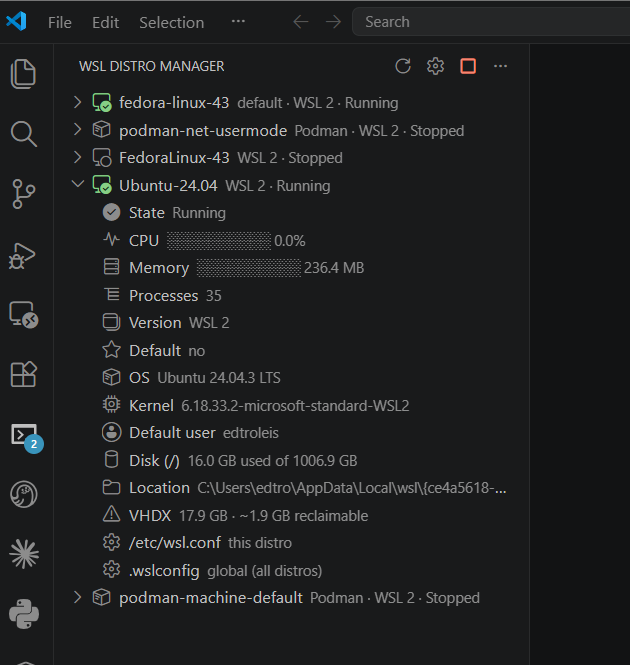
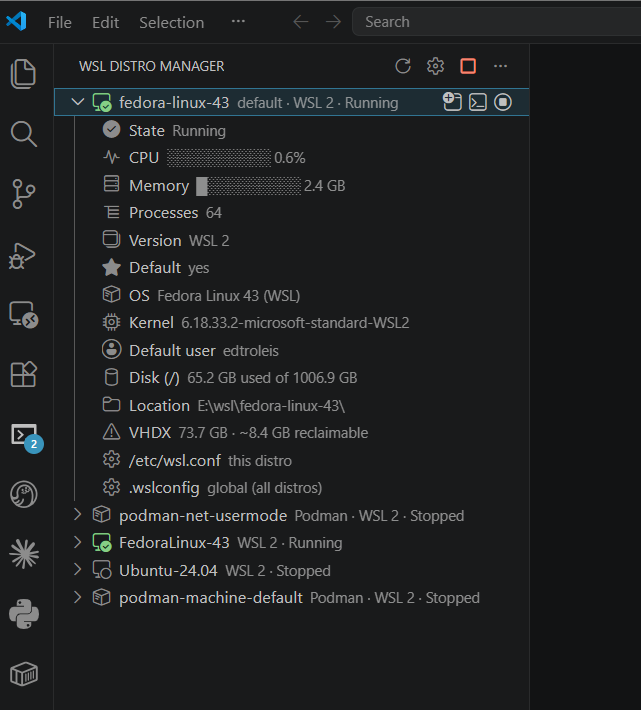
Only suggest compaction when it pays off, and name connected VS Code windows
The VHDX always holds file system overhead beyond what df reports, so the
old 1 GB threshold invited compactions that reclaimed nothing (a 1.2 GB gap
gave back 23 MB) while still shutting WSL down. The estimate now needs a gap
of at least 2 GB and 10% of the used space, calibrated on real runs, and the
confirmation states the expected gain or warns that there is little to gain.

The shutdown confirmation names the distros VS Code windows are connected to,
found through the wsl.exe processes running the VS Code server.

Screenshots updated from the latest test run.

diff --git a/src/commands.ts b/src/commands.ts
@@ -4,7 +4,7 @@ import * as vscode from 'vscode';
 import * as wsl from './wsl';
 import { Distro } from './wsl';
 import { formatBytes } from './monitor';
-import { DistroItem, DistroTreeProvider, InfoItem } from './tree';
+import { DistroItem, DistroTreeProvider, InfoItem, estimateReclaimable } from './tree';
 import { distroUri, globalUri } from './configFs';
 
 function config() {
@@ -141,10 +141,16 @@ export async function confirmRestartIfCurrentWindow(distro: string): Promise<boo
  * Always asks: a shutdown stops every distro, including ones this window or
  * other tools (Docker, Podman) depend on, and those are not restarted for them.
  */
-async function confirmShutdownForCompaction(distro: string, running: string[]): Promise<boolean> {
+async function confirmShutdownForCompaction(
+	distro: string,
+	running: string[],
+	connected: string[],
+	reclaimable: number | undefined,
+): Promise<boolean> {
 	const managed = running.filter((name) => wsl.managedBy(name));
 	const detail = [
-		`WSL keeps the disk of "${distro}" attached while any distro is running.`,
+		`WSL keeps the disk of "${distro}" attached while any distro is running.` +
+			(reclaimable !== undefined ? ` Expected gain: about ${formatBytes(reclaimable)}.` : ''),
 		running.length > 0
 			? `Running now: ${running.join(', ')}. They will be stopped` +
 				(running.length > managed.length ? ' and started again after the compaction.' : '.')
@@ -154,9 +160,12 @@ async function confirmShutdownForCompaction(distro: string, running: string[]): 
 					...new Set(managed.map((name) => wsl.managedBy(name)?.tool)),
 				].join(' / ')} and will not be restarted; start ${managed.length === 1 ? 'it' : 'them'} from that tool.`
 			: '',
-		'Every VS Code window and terminal connected to WSL, including this one if it is, will be ' +
-			'disconnected. Compacting a large disk can take several minutes: wait for the result ' +
-			'before reconnecting them.',
+		connected.length > 0
+			? `VS Code is connected to ${connected.join(', ')}: those windows will lose their connection ` +
+				'and need "Developer: Reload Window" after the compaction.'
+			: '',
+		'Every terminal and VS Code window connected to WSL will be disconnected. Compacting a large ' +
+			'disk can take several minutes: wait for the result before reconnecting.',
 	].filter(Boolean);
 	const choice = await vscode.window.showWarningMessage(
 		`Shut down WSL to compact "${distro}"?`,
@@ -471,11 +480,23 @@ export function registerCommands(
 		const vhdHost = await wsl.toHostPath(vhd);
 		const sizeBefore = (await fs.stat(vhdHost)).size;
 
+		// Only a running distro can report what it uses; say what to expect.
+		const used = distro.running ? (await wsl.runtimeInfo(distro.name).catch(() => undefined))?.diskUsed : undefined;
+		const reclaimable = estimateReclaimable(sizeBefore, used);
+		const expectation =
+			used === undefined
+				? 'The distro is stopped, so the space to reclaim cannot be estimated.'
+				: reclaimable !== undefined
+					? `About ${formatBytes(reclaimable)} can be reclaimed.`
+					: `Little to reclaim: the disk holds ${formatBytes(used)} and is only ${formatBytes(sizeBefore - used)} larger, ` +
+						'which is mostly file system overhead. Compacting now will likely gain almost nothing.';
+
 		const ok = await confirmDistroAction(
 			distro.name,
 			`Compact the disk of "${distro.name}" (${formatBytes(sizeBefore)})?`,
 			'Compact',
-			(distro.running ? 'The distro will be stopped while its disk is compacted, then started again. ' : '') +
+			`${expectation}\n\n` +
+				(distro.running ? 'The distro will be stopped while its disk is compacted, then started again. ' : '') +
 				'Windows will ask for administrator permission to run diskpart.',
 		);
 		if (!ok) {
@@ -515,7 +536,8 @@ export function registerCommands(
 							'window (not connected to WSL).',
 					);
 				}
-				if (!(await confirmShutdownForCompaction(distro.name, running))) {
+				const connected = await wsl.vscodeConnectedDistros().catch(() => []);
+				if (!(await confirmShutdownForCompaction(distro.name, running, connected, reclaimable))) {
 					return;
 				}
 				toRestart = [...new Set([...toRestart, ...running])].filter((name) => !wsl.managedBy(name));

diff --git a/src/tree.ts b/src/tree.ts
@@ -4,8 +4,21 @@ import * as vscode from 'vscode';
 import { DistroMonitor, formatBytes } from './monitor';
 import { Distro, isCurrentWindowDistro, list, managedBy, registryInfo, runtimeInfo, toHostPath } from './wsl';
 
-/** Below this, the gap between VHDX size and used space is not worth a compaction. */
-const RECLAIMABLE_THRESHOLD = 1024 ** 3;
+/**
+ * How much a compaction would likely give back, or undefined when it is not
+ * worth a WSL shutdown. The VHDX always holds a bit more than `df` reports as
+ * used (ext4 metadata, journal, reserved blocks), so a small gap is not free
+ * space: in tests, a 1.2 GB gap on 43 GB used reclaimed 23 MB and a 1.9 GB gap
+ * on 16 GB reclaimed 0.2 GB, while a 9.9 GB gap on 43 GB reclaimed 8.7 GB.
+ * Hence the bar: at least 2 GB and 10% of the used space.
+ */
+export function estimateReclaimable(vhdxSize: number, used: number | undefined): number | undefined {
+	if (used === undefined) {
+		return undefined;
+	}
+	const gap = vhdxSize - used;
+	return gap >= Math.max(2 * 1024 ** 3, used * 0.1) ? gap : undefined;
+}
 
 export class DistroItem extends vscode.TreeItem {
 	constructor(readonly distro: Distro, expanded = false) {
@@ -104,13 +117,15 @@ class ConfigFileItem extends vscode.TreeItem {
  * it runs) shows how much a compaction would give back.
  */
 export function vhdxItem(parent: DistroItem, vhdWindows: string, size: number, used: number | undefined): InfoItem {
-	const reclaimable = used !== undefined ? size - used : 0;
-	const worthIt = reclaimable >= RECLAIMABLE_THRESHOLD;
-	const value = worthIt ? `${formatBytes(size)} · ~${formatBytes(reclaimable)} reclaimable` : formatBytes(size);
+	const reclaimable = estimateReclaimable(size, used);
+	const value = reclaimable !== undefined ? `${formatBytes(size)} · ~${formatBytes(reclaimable)} reclaimable` : formatBytes(size);
 	const tooltip =
 		`${vhdWindows}\n\nFile size: ${formatBytes(size)}` +
-		(used !== undefined ? `\nUsed inside the distro: ${formatBytes(used)}` : '\nStart the distro to estimate reclaimable space.');
-	const item = new InfoItem(parent, 'VHDX', value, worthIt ? 'warning' : 'file-binary', tooltip);
+		(used === undefined
+			? '\nStart the distro to estimate reclaimable space.'
+			: `\nUsed inside the distro: ${formatBytes(used)}` +
+				(reclaimable === undefined ? '\nLittle to reclaim: compacting is not worth it now.' : ''));
+	const item = new InfoItem(parent, 'VHDX', value, reclaimable !== undefined ? 'warning' : 'file-binary', tooltip);
 	// Managed distros get no inline Compact button: their tool owns the disk.
 	item.contextValue = parent.distro.version === 2 && !managedBy(parent.distro.name) ? 'wslVhdx' : 'wslInfo';
 	return item;

diff --git a/src/test/wsl.test.ts b/src/test/wsl.test.ts
@@ -11,6 +11,7 @@ import {
 	parseDistroList,
 	parseRegistry,
 	parseRuntimeInfo,
+	parseVscodeConnectedDistros,
 	toWindowsPath,
 } from '../wsl';
 import * as fs from 'node:fs';
@@ -344,5 +345,32 @@ describe('interopBroken', { skip: process.platform === 'win32' }, () => {
 	it('does not guess when binfmt_misc is not mounted', () => {
 		assert.equal(interopBroken(binfmt()), false);
 		assert.equal(interopBroken('/nonexistent/binfmt_misc'), false);
+	});
+});
+
+describe('parseVscodeConnectedDistros', () => {
+	// Command lines of the wsl.exe processes VS Code runs on Windows, as seen in a real session.
+	const lines = [
+		`C:\\WINDOWS\\System32\\wsl.exe -d fedora-linux-43 sh -c '"$VSCODE_WSL_EXT_LOCATION/scripts/wslServer.sh" f6cfa2 stable code-server .vscode-server --host=127.0.0.1'`,
+		`C:\\WINDOWS\\System32\\wsl.exe -d fedora-linux-43 -e /home/user/.vscode-server/bin/f6cfa2/node -e "const net = require('net');"`,
+		`C:\\WINDOWS\\system32\\wsl.exe -d fedora-linux-43 -e /bin/sh -c "cd '/home/user/code' && /bin/sh"`,
+		`wsl.exe --distribution Ubuntu-24.04 --exec /bin/sh -c "while :; do sleep 2; done"`,
+		`"C:\\WINDOWS\\system32\\wsl.exe" --distribution FedoraLinux-43 --exec /bin/sleep 2147483647`,
+	].join('\r\n');
+
+	it('finds distros running a VS Code server, once each', () => {
+		assert.deepEqual(parseVscodeConnectedDistros(lines), ['fedora-linux-43']);
+	});
+
+	it('ignores terminals, monitors, and keep-alive sessions', () => {
+		const others = lines.split('\r\n').slice(2).join('\n');
+		assert.deepEqual(parseVscodeConnectedDistros(others), []);
+	});
+
+	it('handles --distribution and quoted names', () => {
+		assert.deepEqual(
+			parseVscodeConnectedDistros('wsl.exe --distribution "My Distro" -e /home/u/.vscode-server/bin/x/node'),
+			['My Distro'],
+		);
 	});
 });

diff --git a/src/test/tree.test.ts b/src/test/tree.test.ts
@@ -1,6 +1,6 @@
 import assert = require('node:assert/strict');
 import { describe, it } from 'node:test';
-import { DistroItem, vhdxItem } from '../tree';
+import { DistroItem, estimateReclaimable, vhdxItem } from '../tree';
 import { Distro } from '../wsl';
 
 const GB = 1024 ** 3;
@@ -74,5 +74,27 @@ describe('vhdxItem', () => {
 	it('links back to its distro for the inline Compact action', () => {
 		const parent = new DistroItem(distro());
 		assert.equal(vhdxItem(parent, vhd, GB, GB).parent, parent);
+	});
+});
+
+describe('estimateReclaimable', () => {
+	// Real runs: VHDX size, used inside the distro, and what compaction gave back.
+	it('shows the gaps that paid off', () => {
+		assert.ok(estimateReclaimable(52.8 * GB, 42.9 * GB)); // reclaimed 8.7 GB
+		assert.ok(estimateReclaimable(73.7 * GB, 65.2 * GB)); // ~8.5 GB gap
+	});
+
+	it('hides gaps that are mostly file system overhead', () => {
+		assert.equal(estimateReclaimable(44.1 * GB, 42.9 * GB), undefined); // reclaimed 23 MB
+		assert.equal(estimateReclaimable(17.9 * GB, 16.0 * GB), undefined); // reclaimed 0.2 GB
+	});
+
+	it('needs at least 2 GB even on small disks', () => {
+		assert.equal(estimateReclaimable(3.5 * GB, 1.6 * GB), undefined);
+		assert.ok(estimateReclaimable(4 * GB, 1.5 * GB));
+	});
+
+	it('cannot estimate without the used space', () => {
+		assert.equal(estimateReclaimable(50 * GB, undefined), undefined);
 	});
 });

diff --git a/src/wsl.ts b/src/wsl.ts
@@ -562,3 +562,37 @@ export async function waitUntilUnlocked(windowsPath: string, timeoutMs: number):
 		await new Promise((r) => setTimeout(r, 1000));
 	}
 }
+
+/**
+ * Distros that VS Code windows are connected to right now, found through the
+ * Windows-side wsl.exe processes that run the VS Code server. Best effort: an
+ * empty list when it cannot tell.
+ */
+export async function vscodeConnectedDistros(): Promise<string[]> {
+	const result = await spawnCapture(
+		powershellPath(),
+		[
+			'-NoProfile',
+			'-NonInteractive',
+			'-Command',
+			"Get-CimInstance Win32_Process -Filter \"Name='wsl.exe'\" | ForEach-Object { $_.CommandLine }",
+		],
+		{ cwd: process.platform === 'win32' ? undefined : '/mnt/c', tolerateFailure: true },
+	);
+	return parseVscodeConnectedDistros(result.stdout);
+}
+
+/** Pure part of vscodeConnectedDistros(): one wsl.exe command line per line. */
+export function parseVscodeConnectedDistros(commandLines: string): string[] {
+	const distros = new Set<string>();
+	for (const line of commandLines.split(/\r?\n/)) {
+		if (!/wslServer\.sh|\.vscode-server/.test(line)) {
+			continue;
+		}
+		const match = /\s(?:-d|--distribution)\s+("([^"]+)"|\S+)/.exec(line);
+		if (match) {
+			distros.add(match[2] ?? match[1]);
+		}
+	}
+	return [...distros];
+}

diff --git a/src/test/smoke.ts b/src/test/smoke.ts
@@ -67,6 +67,8 @@ async function main(): Promise<void> {
 		await check('dialog path → wsl.exe path', () => wsl.toWindowsPath(Uri.file(temp) as never));
 	}
 
+	await check('distros with VS Code connected', () => wsl.vscodeConnectedDistros(), (d) => d.join(', ') || 'none');
+
 	for (const distro of distros ?? []) {
 		console.log(`\n${distro.name}${wsl.managedBy(distro.name) ? ` (managed by ${wsl.managedBy(distro.name)?.tool})` : ''}`);
 		const entry = registry?.get(distro.name);

diff --git a/README.md b/README.md
@@ -8,7 +8,7 @@ which is still what connects VS Code to a distro. This one covers what the
 official extension does not: start/stop, `--set-default`, export/import,
 `--shutdown`, resource monitoring, and editing `.wslconfig` and `/etc/wsl.conf`.
 
-![WSL Distro Manager view: an expanded Ubuntu distro with live CPU, memory, and process count, OS and disk details, and reclaimable VHDX space; Podman distros are labeled](images/overview.png)
+![WSL Distro Manager view: the default distro expanded with live CPU, memory, and process count, OS and disk details, and about 8.4 GB of reclaimable VHDX space; Podman distros are labeled](images/overview.png)
 
 ## Features
 
@@ -42,7 +42,11 @@ current VS Code window always ask, even with confirmations turned off.
 A WSL 2 distro keeps its files in a VHDX that grows but never shrinks on its own:
 space freed inside the distro stays allocated on the Windows drive. When a
 running distro is expanded, the **VHDX** row shows how much a compaction would
-give back, with an inline **Compact Disk** button.
+give back, with an inline **Compact Disk** button. The estimate only appears when
+the gap between the file and the used space is at least 2 GB and 10% of the used
+space: the VHDX always holds some file system overhead beyond what `df` reports,
+so smaller gaps reclaim almost nothing (in testing, a 1.2 GB gap gave back 23 MB).
+The confirmation repeats the estimate, or warns when there is little to gain.
 
 Compacting stops the distro, asks Windows for administrator permission (UAC) to
 run `diskpart`, and starts the distro again if it was running.
@@ -55,10 +59,12 @@ case, the extension lists the running distros and asks to shut WSL down; after
 compacting, it starts them again (except Docker/Podman/Rancher distros, which
 must be started from their tool).
 
-![Confirmation to shut down WSL for the compaction, listing the running distros that will be restarted](images/compact-shutdown.png)
+![Confirmation to shut down WSL to compact a stopped distro, listing the running distros that will be restarted; behind it, the default distro shows about 8.4 GB reclaimable](images/compact-shutdown.png)
 
 The shutdown disconnects **every** VS Code window and terminal connected to WSL.
-Those windows retry while WSL is down and then give up; once compaction is done,
+The confirmation names the distros VS Code is connected to (found through the
+`wsl.exe` processes running the VS Code server). Those windows retry while WSL is
+down and then give up; once compaction is done,
 reload them (`Developer: Reload Window`). When compaction runs from a window
 connected to WSL, the result notification offers **Reload Window** for it. Run
 compaction from a local VS Code window when you can, and wait for the result

diff --git a/TESTING.md b/TESTING.md
@@ -42,7 +42,7 @@ Windows host.
 - [ ] A distro started outside VS Code (e.g. Windows Terminal) turns green within the refresh interval.
 - [ ] Expanding a running distro shows CPU, memory, and processes updating every ~2 s.
 - [ ] Collapsing it, or hiding the view, stops the updates (rows show **paused**).
-- [ ] The **VHDX** row of a running distro shows reclaimable space when it is over 1 GB.
+- [ ] The **VHDX** row of a running distro shows reclaimable space only when the gap is at least 2 GB and 10% of the used space.
 - [ ] Podman / Docker distros show the tool name, and their context menu has no *Set as Default*, *Edit /etc/wsl.conf*, *Convert*, or *Compact Disk*.
 - [ ] *Stop* on a Podman / Docker distro warns that it is managed by that tool.
 - [ ] `wslManager.showManagedDistros: false` hides them; `true` brings them back.
@@ -52,7 +52,8 @@ Windows host.
 - [ ] *Import* of that file under a new name creates a working distro; *Unregister* removes it.
 - [ ] *Compact Disk* on a distro you can spare:
   - [ ] Declining the UAC prompt shows an error and leaves the distro as it was.
-  - [ ] With another distro running, it explains that WSL must shut down, lists the running distros, and offers **Shut Down and Compact**.
+  - [ ] The first confirmation states the expected gain, or warns that there is little to reclaim.
+  - [ ] With another distro running, it explains that WSL must shut down, lists the running distros and the distros VS Code is connected to, and offers **Shut Down and Compact**.
   - [ ] That warning says every window connected to WSL will be disconnected, and the progress shows the elapsed time while diskpart runs.
   - [ ] Run from a window connected to WSL, the result offers **Reload Window**, and it reconnects the window.
   - [ ] Accepting it compacts the disk, reports the before/after size, and restarts the distros that were running (not Podman/Docker ones).
@@ -71,7 +72,7 @@ when the UI changes:
 
 | File | What it shows |
 |---|---|
-| `overview.png` | Several distros, one expanded and running: live CPU/memory, details, reclaimable VHDX space, Podman labels. |
+| `overview.png` | Several distros, one expanded and running: live CPU/memory, details, reclaimable VHDX space (over the threshold), Podman labels. |
 | `context-menu.png` | The right-click menu of a distro. |
 | `compact.png` | The VHDX row with reclaimable space and the *Compact Disk* confirmation. |
 | `compact-shutdown.png` | The confirmation to shut WSL down for the compaction. |

diff --git a/CHANGELOG.md b/CHANGELOG.md
@@ -8,6 +8,7 @@ Initial release.
 - Expandable distro details: OS, kernel, default user, disk usage, install location, VHDX size, and how much space a compaction would reclaim.
 - Live CPU, memory, and process count for expanded running distros.
 - Compact a distro's VHDX with diskpart to give disk space back to Windows. When WSL keeps the disk attached (any distro running), it offers to shut WSL down and restarts the distros afterwards.
+- The reclaimable-space estimate only appears when a compaction is worth it (gap of at least 2 GB and 10% of the used space); the confirmations state the expected gain and name the distros VS Code is connected to.
 - Start, stop, restart, set default, convert WSL 1/2, export, import, unregister, shut down WSL.
 - Open a terminal (default user or root) or a new VS Code window connected to a distro.
 - Edit `/etc/wsl.conf` (as root) and the global `.wslconfig`, with a prompt to apply changes on save.
